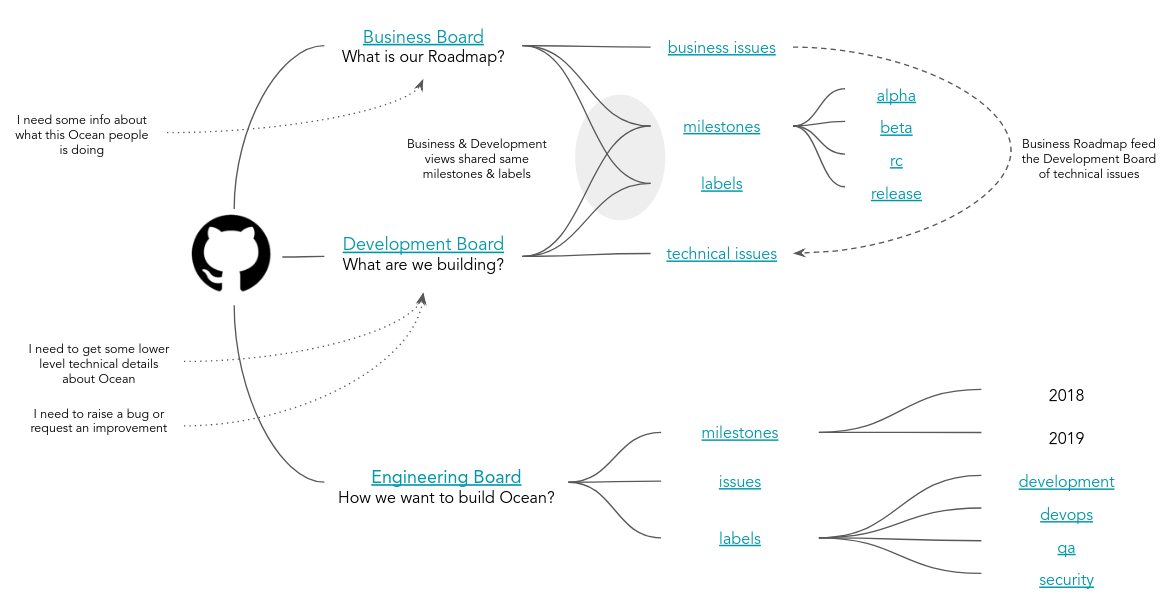
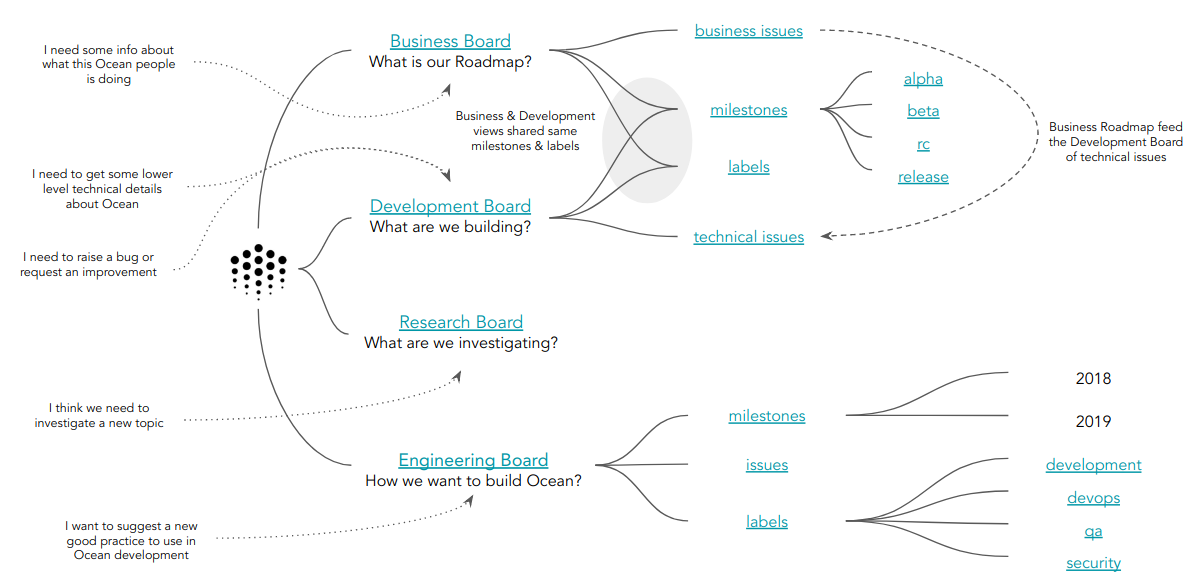
Documenting the delivery pipeline

diff --git a/doc/alm/delivery-pipeline.md b/doc/alm/delivery-pipeline.md
@@ -1,0 +1,88 @@
+
+Table of Contents
+=================
+
+   * [Delivery Pipeline](#delivery-pipeline)
+      * [Pipeline Steps](#pipeline-steps)
+         * [Business Definition](#business-definition)
+         * [Research](#research)
+         * [Development](#development)
+
+---
+
+This page describes the usual Ocean Delivery Pipeline.
+
+
+# Delivery Pipeline
+
+The Delivery Pipeline describes how is the process of building Ocean, starting from the definition until the software delivery.
+This is organize in the following steps:
+
+## Pipeline Steps
+
+![Delivery Phases](../img/delivery-phases.png)
+
+The pipeline is organise in the following 3 high-level steps:
+
+* Business Definition - Gathering requirements from internal or external users
+* Research - Investigation of open technical questions
+* Development - Software implementation and delivery
+
+
+### Business Definition
+
+The Business Definition process has the main intention of gathering all the requirements needed to be implemented in the Ocean product.
+It should include enough details to have an idea about what is necessary to implement. All this information should be documented in the
+[Business Board](https://github.com/oceanprotocol/ocean/projects/1).
+
+A new issue or bug should include the following information:
+
+* A clear title describing the issue
+* A detailed enough description describing the business case
+* A list of labels to categorize the issue
+* A milestone associated, it should help to understand when it's necessary to implement the issue
+* Optionally, any additional link or resource giving additional information
+
+Having this information, the business and technical people can discuss further details or scope of the implementation.
+
+![Business Board](../img/board-business.png)
+
+
+### Research
+
+After to have an initial business definition, if we have open technical questions to discuss, could be necessary to start a research process.
+Typically in Ocean we are dealing with different kind of technologies, some of those in early stages, so this process is quite important to understand
+what can be accomplished, the maturity state, etc.
+
+When a Business issue require further technical investigation, a new issue should be raised in the [Research Board](https://github.com/oceanprotocol/ocean/projects/3).
+
+![Delivery Pipeline](../img/delivery-pipeline.png)
+
+The output of this Research process, should works as input of the development process. It means should provide:
+
+* Github repository with working code (repos: `poc-*`)
+* Documentation detailing the research made
+* Conclusions
+
+The following projects can be used as reference of good PoC's:
+
+* [PoC TCR](https://github.com/oceanprotocol/poc-tcr)
+* [PoC Salpchain](https://github.com/oceanprotocol/poc-salpchain)
+
+
+
+### Development
+
+Having enough business details, and optionally a Research PoC demonstrating the technical next steps, the final development process can be started.
+A new issue can be raised in the [Development Board](https://github.com/oceanprotocol/ocean/projects/2), including all the technical details necessary to accomplish.
+
+It should include the following information:
+
+* A clear title describing the issue
+* A detailed enough description describing the technical implementation to accomplish
+* A list of labels to categorize the issue
+* Link to the expected milestone
+* Links to Business or Research issues in the other boards
+
+A development issue can be considered as an **Epic** issue when is big enough. We don't have a formal definition of this, but if the development of the technical issue
+can't be accomplished in the scope of one sprint, the issue is big enough to be considered an **Epic** story and be splitted in smaller issues.

diff --git a/doc/alm/boards.md b/doc/alm/boards.md
@@ -5,6 +5,7 @@ Table of Contents
    * [Github Ocean Boards](#github-ocean-boards)
       * [Business Board](#business-board)
       * [Development Board](#development-board)
+      * [Research Board](#research-board)
       * [Engineering Board](#engineering-board)
 
 ---
@@ -73,6 +74,18 @@ Related with the **Development** board, some relevant information included is:
 
 
 This board should work as public interface with the Open Source community, including developers and early adopters. It should help to show in any moment, the implementation details of any Ocean requirement or bug.
+
+
+## Research Board
+
+The [Research Board](https://github.com/oceanprotocol/ocean/projects/3) details the technical investigation tasks we are doing to analyze the open questions we have.
+It can be used to get a better understanding about the state research process and Proofs of Concepts (PoC) we have in progress.
+
+The main users of this board are:
+
+* The Research team, using this in a daily basis during the research process. It should help to track the state of the investigations and PoC's.
+* The Ocean development team,  helping them to track the state of the PoC's.
+* Any community member, needing to understand some low level technical details about the Ocean implementation.
 
 
 ## Engineering Board

diff --git a/doc/alm.md b/doc/alm.md
@@ -16,6 +16,12 @@ This page describes the overall Ocean Application Lifecycle Management (ALM)
 
 ![banner](img/lifecycle.png)
 
+A more detailed view of the [Delivery pipeline](alm/delivery-pipeline.md) includes:
+
+* Business definition
+* Research
+* Development
+
 
 ## Ocean Boards
 
@@ -23,9 +29,10 @@ In Ocean we use different Github boards to track different parts of the delivery
 
 The main [Ocean Boards](alm/boards.md) in use are:
 
-* [Business Board](#business-board)
-* [Development Board](#development-board)
-* [Engineering Board](#engineering-board)
+* [Business Board](alm/boards.md#business-board)
+* [Development Board](alm/boards.md#development-board)
+* [Research Board](alm/boards.md#research-board)
+* [Engineering Board](alm/boards.md#engineering-board)
 
 ## Definition of Done (DoD)
 
